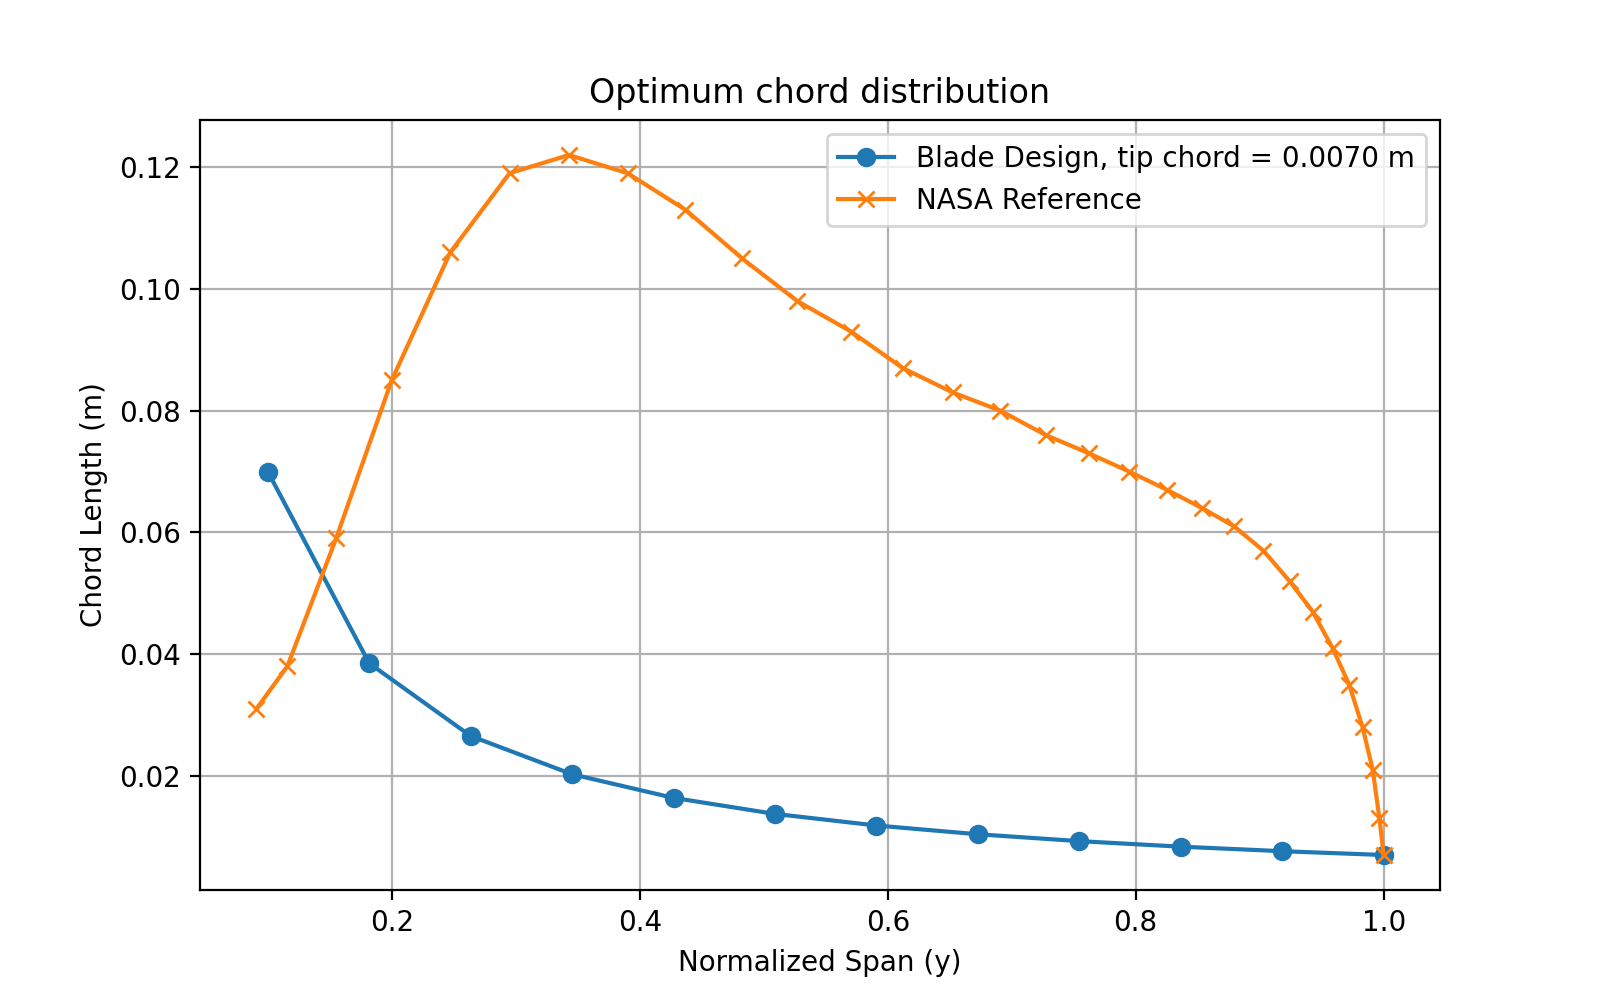
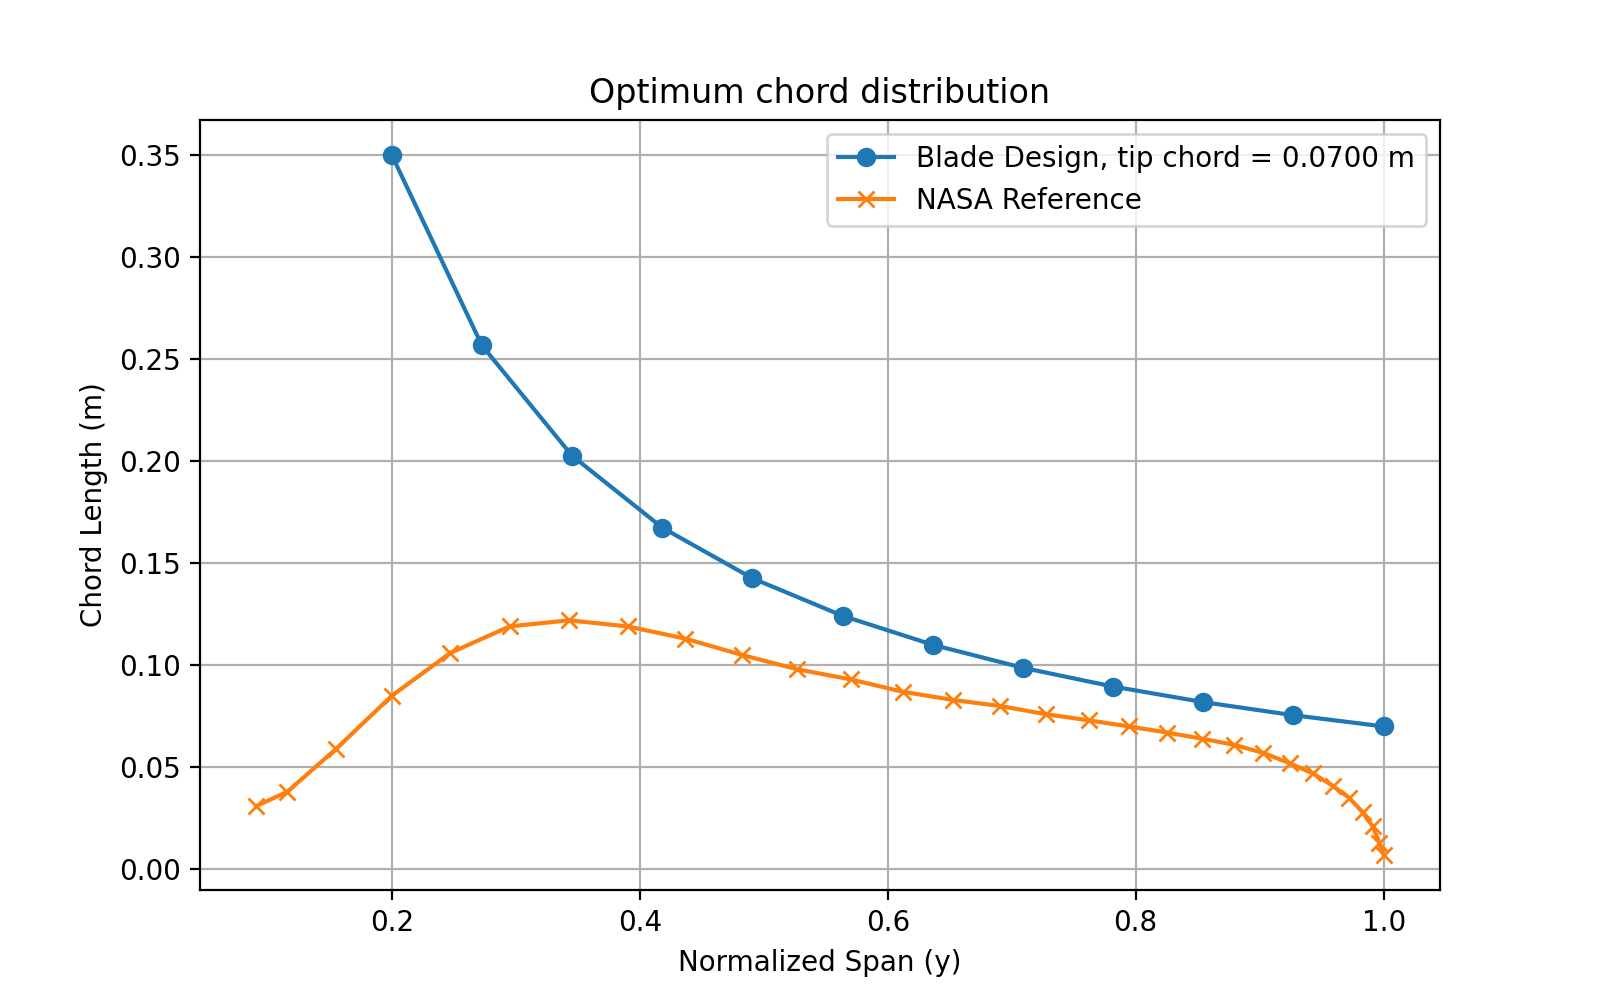
start on bem

diff --git a/blade_design.py b/blade_design.py
@@ -9,15 +9,19 @@ from parse_txt_funcs import(read_polar_txt,
 class BladeDesign:
     def __init__(self, drone, planet, polar_data="data/clf5605_us_fp_polar.txt", no_blade_elements=12):
         self.R = drone.rotor_radius
-        self.r = np.linspace(0.1 * self.R, self.R, no_blade_elements)  # Avoid r=0 to prevent singularity
+        # Cut off the blade at 80% of the radius to avoid the root region where the flow is complex and the blade may not be effective
+        self.drone = drone
+        r_cut_off = 0.2 * self.R
+        self.r = np.linspace(r_cut_off, self.R, no_blade_elements)  # Avoid r=0 to prevent singularity
         
         self.polar = read_polar_txt(polar_data)
         self.y = self.r / self.R  # Normalized radius
         self.Cl = self.polar["Cl"]
-        self.aoa = self.polar["alpha"]  
+        self.aoa_deg = self.polar["alpha"]  
+        self.aoa_rad = np.radians(self.aoa_deg)
         # interp Cl vs aoa to find alpha0 (zero lift angle) and Cl_alpha (slope of Cl vs aoa)
         # the slope of the lift curve, denoted as Cl_alpha, is measured at the zero lift angle of attack. 
-        self.alpha_0, self.Cl_alpha = self.alpha_from_cl(0.0, self.Cl, self.aoa, n_fit=len(self.Cl))
+        self.alpha_0_deg, self.alpha_0_rad, self.Cl_alpha = self.alpha_from_cl(0.0, self.Cl, self.aoa_deg, n_fit=len(self.Cl))
         self.solidity = drone.solidity
         
         self.mass = drone.mass
@@ -30,14 +34,13 @@ class BladeDesign:
 
     def compute_no_twist(self):
         
-        self.no_twist = 3 * (self.C_T / (self.solidity * self.Cl_alpha) + 1/4 * sqrt(self.C_T) ) + self.alpha_0 
-        
+        self.no_twist = (3 * (self.C_T / (self.solidity * self.Cl_alpha) + 1/4 * sqrt(self.C_T) ) + self.alpha_0_deg)
         
         return self
     
     def compute_linear_twist(self):
         
-        theta_tip = 12/5 * (self.C_T / (self.solidity * self.Cl_alpha) + 1/4 * sqrt(self.C_T)  + 1/3*self.alpha_0)
+        theta_tip = (12/5 * (self.C_T / (self.solidity * self.Cl_alpha) + 1/4 * sqrt(self.C_T)  + 1/3*self.alpha_0_deg))
         theta = theta_tip**(2 - self.y)
         self.linear_twist = theta
         
@@ -45,7 +48,7 @@ class BladeDesign:
     
     def compute_optimum_twist(self):
         
-        theta_tip = 2 * (self.C_T / (self.solidity * self.Cl_alpha) + 1/2 * sqrt(self.C_T)  + 2/3 * self.alpha_0)
+        theta_tip = (2 * (self.C_T / (self.solidity * self.Cl_alpha) + 1/2 * sqrt(self.C_T)  + 2/3 * self.alpha_0_deg))
         self.optimum_twist = theta_tip / self.y
         
         return self
@@ -56,30 +59,59 @@ class BladeDesign:
         # induced_velocity = 1/2 * sqrt(self.C_T)
         # flow_angle = induced_velocity / self.y
         # alpha_D = pitch_angle - flow_angle
-        self.design_aoa = self.find_design_aoa()
+        self.design_aoa_deg, self.design_aoa_rad = self.find_design_aoa()
         
-        self.theta_optimum_plan_form = self.design_aoa + 1/(2 * self.y) * sqrt(self.C_T)
+        theta_optimum_plan_form_rad = self.design_aoa_rad + 1/(2 * self.y) * sqrt(self.C_T)
+        
+        self.theta_optimum_plan_form = np.degrees(theta_optimum_plan_form_rad)
         
         return self
+    
+    def define_design_twist(self):
+        self.design_twist = self.theta_optimum_plan_form
+        #TODO DEFINE ACTUAL TWIST DISTRIBUTION
+        
+    def define_design_chord(self, c_tip):
+        self.design_chord = self.chord_distribution
+        #TODO DEFINE ACTUAL CHORD DISTRIBUTION
     
     def find_design_aoa(self):
         # the design angle of attack is chosen at the aoa where cd/cl is at the minimum value
         cd_cl = self.polar["Cd"] / self.polar["Cl"]
         min_idx = np.argmin(cd_cl)
-        self.design_aoa = self.polar["alpha"][min_idx]
-        return self.design_aoa
+        design_aoa_deg = self.polar["alpha"][min_idx]
+        design_aoa_rad = np.radians(design_aoa_deg)
+        
+        return design_aoa_deg, design_aoa_rad
     
     def alpha_from_cl(self, cl_target, Cl, aoa, n_fit=3):
+        """
+        Estimate the angle of attack (aoa) corresponding to a target lift coefficient (cl_target) using local linear fitting.
+        This method sorts the provided Cl and aoa data, performs a local linear fit around the target Cl, 
+        and then uses the fit to estimate the aoa at the target Cl.
+        It also calculates the slope of the lift curve (Cl_alpha) at that point.
+        
+        Parameters:
+        - cl_target: The target lift coefficient for which we want to find the corresponding angle of attack.
+        - Cl: An array of lift coefficients corresponding to the provided angles of attack.
+        - aoa: An array of angles of attack.
+        - n_fit: The number of points to use for the local linear fit.
+        """
+        # Sort the data by Cl to ensure proper interpolation and fitting
         idx = np.argsort(Cl)
+        # Reorder Cl and aoa according to the sorted indices
         Cls = np.asarray(Cl)[idx]
+        # Reorder aoa according to the sorted indices
         aos = np.asarray(aoa)[idx]
+        aoas_rad = np.radians(aos)
 
+        # Ensure n_fit is at least 2 and does not exceed the number of available data points
         n_fit = max(2, min(n_fit, len(Cls)))
 
         # local linear fit near target for slope estimate: aoa = m*Cl + b
         near_idx = np.argsort(np.abs(Cls - cl_target))[:n_fit]
         near_idx = np.sort(near_idx)
-        m, b = np.polyfit(Cls[near_idx], aos[near_idx], 1)
+        m, b = np.polyfit(Cls[near_idx], aoas_rad[near_idx], 1)
 
         # alpha at target Cl (interp in-range, extrap out-of-range)
         if Cls[0] <= cl_target <= Cls[-1]:
@@ -89,6 +121,47 @@ class BladeDesign:
 
         # Cl_alpha is dCl/d(alpha). Since m = d(alpha)/dCl, invert it.
         Cl_alpha = np.inf if np.isclose(m, 0.0) else 1.0 / m
+        
+        target_aoa_deg = target_aoa
+        target_aoa_rad = np.radians(target_aoa_deg)
 
-        return float(target_aoa), float(Cl_alpha)
+        return float(target_aoa_deg), float(target_aoa_rad), float(Cl_alpha)
     
+    def prandtl_tip_correction(self, phi_rad, method="linear"):
+        #eq 89
+        r = self.r
+        phi_deg = np.degrees(phi_rad)
+        Nb = self.drone.N_blades
+        R = self.R
+        if method == "linear":
+            sin_phi = phi_rad
+        else:
+            sin_phi = np.sin(phi_rad)
+        
+        f = Nb / 2 * (R - r) / (r * sin_phi)
+        F = 2 / pi * np.arccos(np.exp(-f))
+        return F
+     
+    def bem(self, method="linear", hover=True):
+        if hover==True:
+            lambda_c,v_climb = 0.0
+        
+        sigma = self.solidity
+        Cla = self.Cl_alpha_rad
+        F = self.prandtl_tip_correction(phi_rad, method=method)
+        theta = self.design_twist
+        alpha0 = self.alpha_0_rad
+        y = self.y
+
+        # below equation 88
+             
+        vrel = sqrt((v_climb + u_i)**2 + (omega * r)**2) # local relative velocity
+        phi_rad = np.arctan(u_i / (omega * r)) # flow angle
+        
+        if method == "linear":
+            #eq 98
+            
+            if hover = = True:
+                lambda_i = (sigma * Cla) / (16 * F) * (sqrt(1+32*F/(sigma * Cla) * (theta - alpha0) * y) - 1)
+            else:
+                lambda_i = -1/2 * (lambda_c + sigma * Cla / (8 * F) - sqrt((lambda_c + sigma * Cla / (8 * F))**2 + sigma * Cla * (theta - alpha0) * y / (2 * F) ))

diff --git a/main.py b/main.py
@@ -337,9 +337,15 @@ if do["Q2_FINAL_GRID_SEARCH"]:
     print(f"Chosen best design: {best_overall.name}")
 
     plot_weight_distribution_pie(
-        design=best_overall,
-        filename="plots/q2_weight_distribution_best_design.png",
-        title=f"Weight Distribution — {best_overall.name}"
+        design=best_dual,
+        filename="plots/q2_weight_distribution_best_dual_design.png",
+        title=f"Weight Distribution — {best_dual.name}"
+    )
+    
+    plot_weight_distribution_pie(
+        design=best_quad,
+        filename="plots/q2_weight_distribution_best_quad_design.png",
+        title=f"Weight Distribution — {best_quad.name}"
     )
 
     
@@ -485,7 +491,7 @@ if do["Q5"]:
     blade_geometry_nasa = read_blade_geometry_nasa("data/ingenuity_nasa_blade_geometry.txt")
     
     # We can use the tip chord length from the reference data to more accurately compute the chord distribution
-    C_TIP = blade_geometry_nasa['chord'][-1]  # Assuming the first entry corresponds to the tip chord
+    C_TIP = blade_geometry_nasa['chord'][-13]  # Assuming the first entry corresponds to the tip chord
     print(f"Using tip chord length from NASA data for blade design: {C_TIP:.4f} m")
 
     
@@ -498,9 +504,7 @@ if do["Q5"]:
         blade_design.compute_optimum_twist()
         blade_design.compute_optimum_plan_form_and_twist(C_TIP)
         blade_designs.append(blade_design)
-    
-
-    
+        
         
     plot_q5_twist_subplots(blade_designs=blade_designs, blade_geometry_nasa=blade_geometry_nasa,
         filename="plots/q5_twist_distributions.png"
